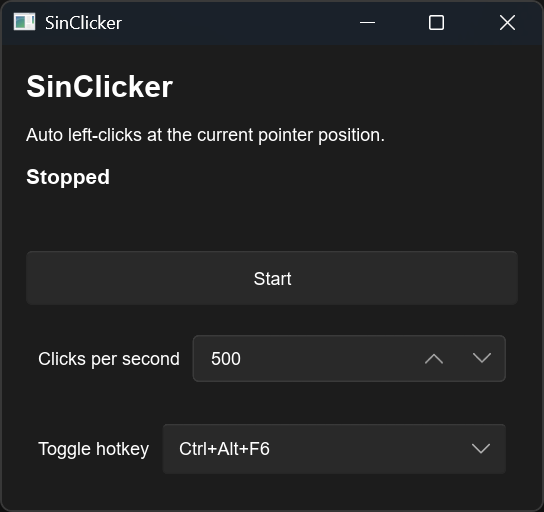
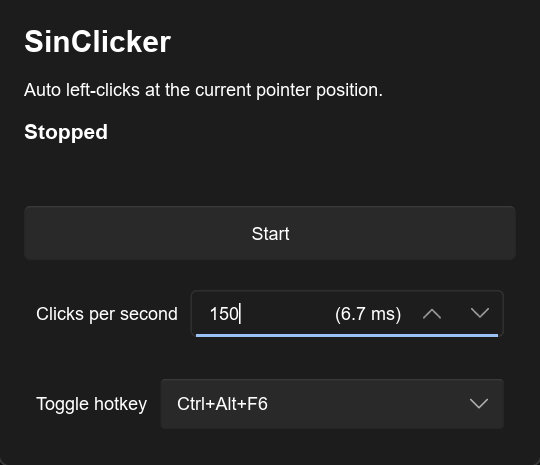
feat(ui): show target interval inline in the CPS control

diff --git a/src/clicker.rs b/src/clicker.rs
@@ -40,6 +40,24 @@ pub fn click_interval_micros(cps: i32) -> u64 {
     1_000_000 / validate_cps(cps) as u64
 }
 
+/// The target interval per click for a CPS value, as a display string in
+/// milliseconds: `1000/CPS`, clamped into the supported range and rounded to
+/// one decimal place (`3 CPS` -> `333.3 ms`, `16 CPS` -> `62.5 ms`,
+/// `160 CPS` -> `6.3 ms`). Values that round to a whole number of
+/// milliseconds are shown without a decimal point (`500 CPS` -> `2 ms`,
+/// `167 CPS` -> `6 ms`).
+pub fn target_interval_display(cps: i32) -> String {
+    let cps = validate_cps(cps) as u64;
+    // The interval in tenths of a millisecond, rounded half-up:
+    // `round(10000/cps) = (20000 + cps) / (2 * cps)` in integer math.
+    let tenths = (20_000 + cps) / (2 * cps);
+    if tenths.is_multiple_of(10) {
+        format!("{} ms", tenths / 10)
+    } else {
+        format!("{}.{} ms", tenths / 10, tenths % 10)
+    }
+}
+
 #[derive(Debug, Clone, Copy, PartialEq, Eq)]
 pub enum Command {
     Start,
@@ -440,6 +458,48 @@ mod tests {
         assert_eq!(click_interval_micros(100), 10_000);
         assert_eq!(click_interval_micros(1), 1_000_000);
         assert_eq!(click_interval_micros(3), 333_333); // floor, never up
+    }
+
+    #[test]
+    fn target_interval_display_shows_milliseconds_per_click() {
+        assert_eq!(target_interval_display(1), "1000 ms");
+        assert_eq!(target_interval_display(3), "333.3 ms");
+        assert_eq!(target_interval_display(7), "142.9 ms");
+        assert_eq!(target_interval_display(10), "100 ms");
+        assert_eq!(target_interval_display(16), "62.5 ms");
+        assert_eq!(target_interval_display(25), "40 ms");
+        assert_eq!(target_interval_display(30), "33.3 ms");
+        assert_eq!(target_interval_display(100), "10 ms");
+        assert_eq!(target_interval_display(160), "6.3 ms"); // exact half, rounded up
+        assert_eq!(target_interval_display(167), "6 ms"); // rounds to a whole ms
+        assert_eq!(target_interval_display(250), "4 ms");
+        assert_eq!(target_interval_display(500), "2 ms");
+    }
+
+    #[test]
+    fn target_interval_display_clamps_out_of_range_cps() {
+        assert_eq!(target_interval_display(0), target_interval_display(1));
+        assert_eq!(target_interval_display(-5), "1000 ms");
+        assert_eq!(target_interval_display(501), target_interval_display(500));
+        assert_eq!(target_interval_display(10_000), "2 ms");
+    }
+
+    #[test]
+    fn target_interval_display_matches_the_true_interval_for_every_cps() {
+        // The display must equal the true 1000/cps value rounded to one
+        // decimal place. The reference is computed independently with IEEE
+        // doubles: the only exact halves (where `10000/cps = k + 1/2`) are
+        // exactly representable, and no other value lies close enough to a
+        // rounding boundary for double error to matter at cps <= 500.
+        for cps in 1..=500i32 {
+            let tenths = (10_000.0 / cps as f64).round() as u64;
+            let expected = if tenths.is_multiple_of(10) {
+                format!("{} ms", tenths / 10)
+            } else {
+                format!("{}.{} ms", tenths / 10, tenths % 10)
+            };
+            assert_eq!(target_interval_display(cps), expected, "for cps {cps}");
+        }
     }
 
     fn simulate(cps: i32, duration_us: u64, cps_changes: &[(u64, i32)]) -> usize {

diff --git a/src/main.rs b/src/main.rs
@@ -5,7 +5,7 @@
 use slint::SharedString;
 use slint::Weak;
 
-use sinclicker::clicker::{validate_cps, Worker, WorkerEvent};
+use sinclicker::clicker::{target_interval_display, validate_cps, Worker, WorkerEvent};
 use sinclicker::hotkey::{Hotkey, HotkeyEvent};
 use sinclicker::settings::{self, DEFAULT_HOTKEY_DISPLAY};
 
@@ -36,6 +36,9 @@ fn main() -> Result<(), slint::PlatformError> {
     // property set; it does not fire the SpinBox's `edited` callback, so no
     // redundant worker update or save happens at startup.
     window.set_cps(initial_cps);
+    // The target interval is derived from the same resolved value, so the
+    // displayed interval matches the rate the worker starts with.
+    window.set_target_interval(SharedString::from(target_interval_display(initial_cps)));
     // The ComboBox model is the supported catalog itself, in the same order
     // `ui_index_for_display` uses, so the two can never drift apart.
     let model: Vec<SharedString> = settings::supported_hotkey_displays()
@@ -185,6 +188,12 @@ fn main() -> Result<(), slint::PlatformError> {
             // a stored value is always in range.
             let cps = validate_cps(value);
             cps_handle.set_cps(cps);
+            // Keep the displayed target interval in step with the exact value
+            // the worker is about to use. The callback already runs on the UI
+            // thread, so the property set needs no event-loop hop.
+            if let Some(window) = weak.upgrade() {
+                window.set_target_interval(SharedString::from(target_interval_display(cps)));
+            }
             // Persist the new rate. A failed save must not break clicking:
             // report it in the UI and say exactly that it was not saved,
             // rather than claiming it was.

diff --git a/.agent/PROGRESS.md b/.agent/PROGRESS.md
@@ -457,6 +457,87 @@ working tree was clean and the baseline unambiguous before any edit.
   The branch is ready to merge when the maintainer wants to fold it in
   (uncommitted, per instruction).
 
+## Milestone 9 — done (target-interval display)
+
+Branch `feature/target-interval` from `main` @ `3c39d1b`; the working tree was
+clean when the branch was created.
+
+- What changed:
+  - `src/clicker.rs`: new pure `target_interval_display(cps) -> String` —
+    `1000/CPS` milliseconds, clamped by `validate_cps`, computed in integer
+    math as the true value rounded half-up to one decimal (tenths of a
+    millisecond: `(20000 + cps) / (2 * cps)`). Values that land on a whole
+    millisecond are shown without a decimal point.
+  - `ui/app.slint`: the nominal interval is shown **inline in the CPS row** —
+    the unchanged `SpinBox` (all bounds, callbacks, range untouched) fills an
+    otherwise-transparent `Rectangle` that is the row's stretch cell, and a
+    non-interactive `Text` (`" (" + target-interval + ")"`, 12px) is anchored
+    inside the same control, right of the value, 6px clear of the chevrons
+    (`x: parent.width - 68px - self.width`; the fluent SpinBox's right
+    interior padding is `12px + 28px + 4px + 28px + 2px = 62px`). A plain
+    `Text` has no `TouchArea` and takes no focus, so the SpinBox's editing,
+    keyboard up/down, buttons, and UIA value pattern are unaffected. An
+    earlier iteration used a separate "Target interval" row; on request it was
+    folded into the control itself (the `target-interval` property and the
+    Rust wiring are unchanged by that switch).
+  - `src/main.rs`: the property is initialized at startup from the same
+    resolved value that initializes the UI SpinBox and the worker
+    (`resolve_startup_cps(load_cps())`), so it always matches the rate the
+    worker starts with; `on_cps_changed` updates it from the same clamped value
+    sent to the worker and saved (direct property set — the callback runs on
+    the UI thread, so no event-loop hop is needed).
+  - `screenshots/screenshot.png`: regenerated for the final inline layout
+    (captured from the release binary with the then-stored CPS value of 150,
+    so the CPS row reads `150 (6.7 ms)`).
+  - `SPEC.md` / `README.md`: the UI list and the one-paragraph description now
+    mention the target-interval display.
+- Calculation/formatting decision: the parenthetical is the *nominal*
+  interval, never presented as a measurement — Windows scheduling and the
+  target application's input handling determine the observed rate (already
+  documented in SPEC "Click rate"; the SPEC/README copy spells out the
+  target-vs-actual distinction, since the inline label is just the number
+  with its "ms" unit). Precision: one decimal place, the only amount that
+  distinguishes neighbouring CPS values anywhere in 1–500 (167 CPS ->
+  `6 ms` rather than a misleading `6.0 ms`/`6.1 ms`; 3 CPS -> `333.3 ms`;
+  160 CPS -> the exact half, `6.25`, rounds to `6.3 ms`; 166 CPS -> `6.02..`
+  rounds to `6 ms`). Whole-millisecond results (1, 2, 4, 5, 10, 20, 25, 50,
+  100, 200, 250, 500 CPS and the rounding cases) omit the decimal point. The
+  longest value the parenthetical can take is `(333.3 ms)` at low CPS, where
+  the value field is also widest; it is 12px against 16 digits and clears the
+  left-aligned value text at every CPS in 1–500 (verified by the range test
+  and the UIA pass).
+- Tests (all pure; no mouse input, no hotkeys): 3 new unit tests in
+  `src/clicker.rs` — exact display values incl. the edge and half-rounding
+  cases; out-of-range CPS clamps to the range-end display; and a whole-range
+  loop over 1..=500 comparing the display against an independently computed
+  round-half-up of the true `1000/CPS` value (f64 reference — the only exact
+  halves are exactly representable, and no other value sits close enough to a
+  rounding boundary at cps <= 500 for double error to matter).
+- Checks (all pass, 2026-10-08): `cargo fmt --check`,
+  `cargo check --all-targets`, `cargo test` (42 lib unit + 4 integration),
+  `cargo clippy --all-targets -- -D warnings`, `cargo build --release`.
+- UI-level verification against the release binary (UIA, throwaway script
+  under `%TEMP%`), both layout iterations: (1) separate row — the displayed
+  interval at startup matched the persisted CPS (stored 150 -> `6.7 ms`);
+  a UIA value-set of the SpinBox to 3 updated it to `333.3 ms` and to 500 to
+  `2 ms`. (2) Inline (final) layout — the parenthetical text appears in the
+  same row as the spinner (UIA tree shows ` (6.7 ms)` directly after the
+  Spinner at startup with the stored 150) and tracks the SpinBox value
+  through the app's own `cps-changed` path: set 3 -> ` (333.3 ms) `, set 500
+  -> ` (2 ms) `; the separate row is gone from the tree; the window still
+  closes cleanly via UIA `WindowPattern.Close()` (exit code 0). The user's
+  stored `Cps` value was backed up before and restored after each run.
+- Limitations: the `PostMessage(WM_CLOSE)` the throwaway capture script
+  sends does not reliably reach this window (two of its runs needed a forced
+  kill); UIA `WindowPattern.Close()` works and is the supported close path
+  (Milestone 5 and the final-layout check both got exit code 0 through it).
+  The inline text is a display of the value the worker already knew — no
+  click, scheduling, or hotkey code path changed. The overlay geometry
+  (68px from the right edge) is computed from the fluent SpinBox's internal
+  paddings/chevron sizes; a Slint version bump that restyles the SpinBox
+  would need the offset rechecked (the value text is left-aligned and at
+  most 3 digits, so there is slack on both sides).
+
 ## Status
 
 Milestones 1–7 complete on the working branch: SPEC.md v1 scope (window,
@@ -466,5 +547,7 @@ and verified — end-to-end for hotkey behaviour (Milestone 5) and for CPS
 persistence via the UIA matrix above. The click scheduler runs the wake-based
 backend (waitable timer + command-event wake, QPC `Instant` deadline clock):
 full 100 CPS in the in-process wake probe (100.0 wake/s) and a bounded 500
-CPS (2 ms) wake probe. The branch is uncommitted; nothing here changes the
-click or hotkey code paths beyond the range widening.
+CPS (2 ms) wake probe. Milestone 9 added the target-interval display
+(`1000/CPS` ms, one decimal, labeled nominal). All branch work is
+uncommitted, per instruction; nothing in the click or hotkey code paths
+changed.

diff --git a/README.md b/README.md
@@ -3,9 +3,12 @@
 A small Windows-only autoclicker. It sends left mouse button clicks at
 the current pointer position at an adjustable rate (1–500 clicks per
 second). Clicking is started and stopped from the window, and a global
-hotkey (default Ctrl+Alt+F6) toggles clicking from anywhere. The chosen
-hotkey and click rate are saved and restored across launches. The app
-does not require administrator privileges; note that Windows may block
+hotkey (default Ctrl+Alt+F6) toggles clicking from anywhere. The window
+also shows the target interval between clicks (1000/CPS milliseconds)
+beside the click-rate control; it is the nominal target, not a
+measurement of actual click timing. The
+chosen hotkey and click rate are saved and restored across launches. The
+app does not require administrator privileges; note that Windows may block
 simulated input from reaching higher-integrity applications, and whether
 the full 500 clicks per second actually reach the target depends on
 Windows scheduling and the target's own input handling.

diff --git a/.agent/SPEC.md b/.agent/SPEC.md
@@ -32,8 +32,11 @@ It should include:
    - `Clicking` when clicking is on.
 3. A clear Start/Stop button.
 4. A CPS control with a visible numeric value.
-5. A display of the global toggle hotkey.
-6. A concise hint that clicking happens at the current pointer position.
+5. A display of the target interval per click in milliseconds (`1000/CPS`);
+   it is a nominal target, not a measurement of actual click timing, and it
+   is shown whether clicking is stopped or running.
+6. A display of the global toggle hotkey.
+7. A concise hint that clicking happens at the current pointer position.
 
 The global hotkey toggles clicking on and off. The in-window button must do the
 same. The hotkey should work while the app window is not focused.
